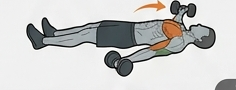
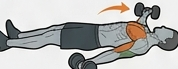
Afinar recorte de pecho aperturas (excluir etiqueta TR y texto)
- img/07-pecho-aperturas.png recortado más limpio
- sw: cache v5

diff --git a/sw.js b/sw.js
@@ -1,7 +1,7 @@
 // Service worker: permite instalar la app y usarla sin conexión.
 // Estrategia "red primero": si hay conexión, siempre ves la última versión;
 // sin conexión, tira de la copia cacheada.
-var CACHE_VERSION = "gym-trainer-v4";
+var CACHE_VERSION = "gym-trainer-v5";
 
 var ASSETS = [
   "./",
